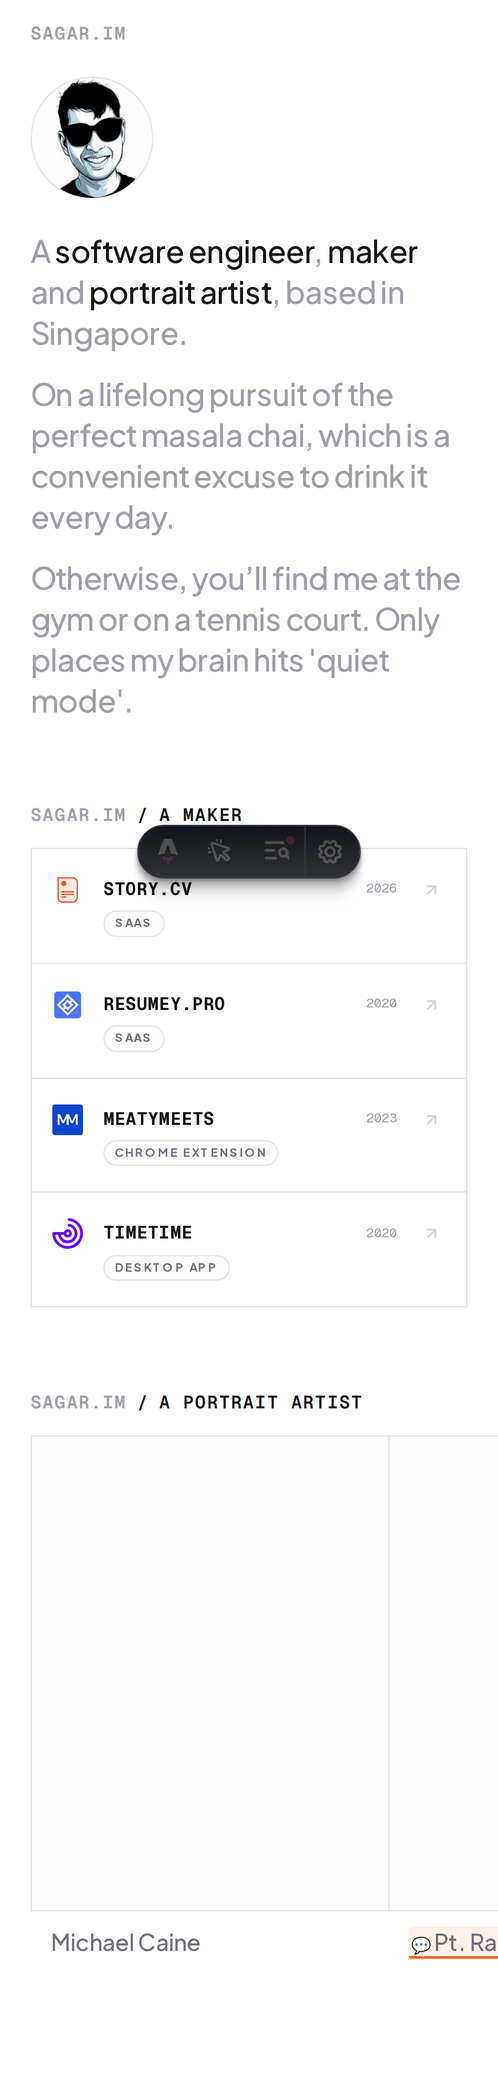
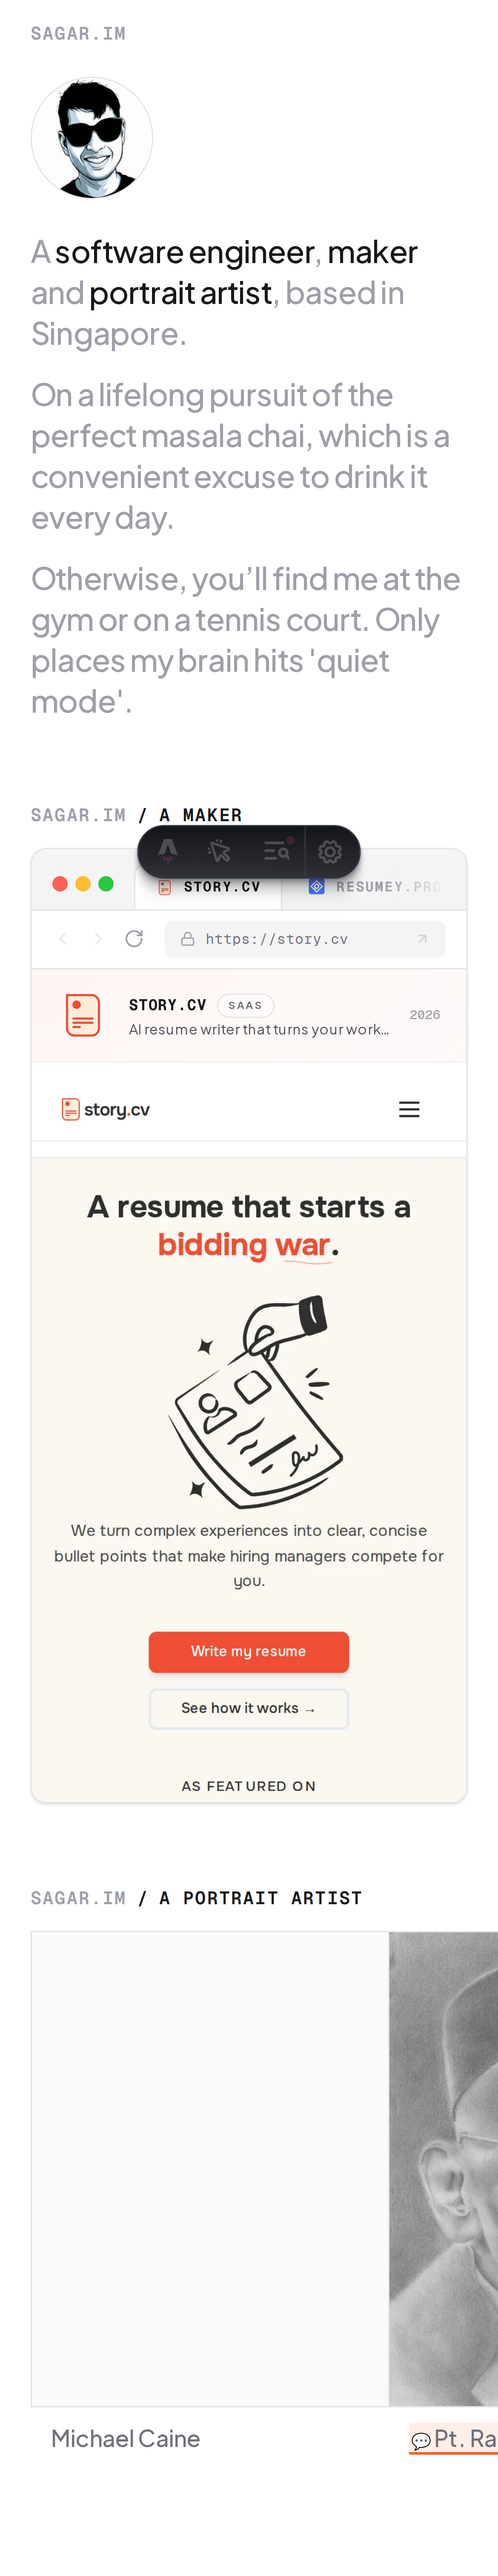
Redesign Maker Section to Browser UI (#20)
* Redesign maker section with browser-like container UI

- Implement browser-style window with traffic lights and tabs
- Add horizontally scrollable tab list for apps with logo and name
- Add toolbar with navigation icons and functional URL bar
- Update URL bar text and link dynamically based on selected tab
- Enhance visual style with glassmorphism and brand-colored spotlight effects
- Update screenshot utility and add Playwright tests for the new UI

* Redesign maker section to browser-like container

- Replaces accordion layout with a browser-themed UI including window controls, tabs, and a URL bar.
- Implements client-side JavaScript for tab switching and dynamic brand-colored effects.
- Adds horizontal scroll support for tabs with a visual gradient hint on mobile.
- Updates Playwright tests and screenshot scripts to verify the new functionality.
- Ensures the URL bar acts as a functional link to external applications.

* Redesign maker section as a browser-themed UI

- Replace accordion list with a browser-like container including traffic lights, tabs, and a toolbar.
- Implement horizontally scrollable app tabs with logo and name.
- Add functional URL bar with external link icon and URL truncation.
- Integrate high-fidelity app screenshots into the browser content area.
- Automate screenshot capture via `scripts/capture-apps.mjs`.
- Add Playwright tests for the new browser UI and interactivity.
- Update content schemas and Markdown for app screenshots.
[…]

diff --git a/src/content/config.ts b/src/content/config.ts
@@ -11,6 +11,9 @@ const apps = defineCollection({
     tag: z.string(),
     year: z.string(),
     color: z.string(),
+    screenshot: image().optional(),
+    screenshot_desktop: image().optional(),
+    screenshot_mobile: image().optional(),
   }),
 });
 

diff --git a/src/content/apps/meatymeets.md b/src/content/apps/meatymeets.md
@@ -7,4 +7,7 @@ order: 3
 tag: "Chrome Extension"
 year: "2023"
 color: "#0D45CD"
+screenshot: "../../assets/apps/meatymeets.png"
+screenshot_desktop: "../../assets/apps/meatymeets-desktop.png"
+screenshot_mobile: "../../assets/apps/meatymeets-mobile.png"
 ---

diff --git a/src/content/apps/resumey-pro.md b/src/content/apps/resumey-pro.md
@@ -7,4 +7,7 @@ order: 2
 tag: "SaaS"
 year: "2020"
 color: "#4B76F1"
+screenshot: "../../assets/apps/resumey-pro.png"
+screenshot_desktop: "../../assets/apps/resumey-pro-desktop.png"
+screenshot_mobile: "../../assets/apps/resumey-pro-mobile.png"
 ---

diff --git a/src/content/apps/timetime.md b/src/content/apps/timetime.md
@@ -7,4 +7,7 @@ order: 4
 tag: "Desktop App"
 year: "2020"
 color: "#6807F9"
+screenshot: "../../assets/apps/timetime.png"
+screenshot_desktop: "../../assets/apps/timetime-desktop.png"
+screenshot_mobile: "../../assets/apps/timetime-mobile.png"
 ---

diff --git a/src/content/apps/story-cv.md b/src/content/apps/story-cv.md
@@ -7,4 +7,7 @@ order: 1
 tag: "SaaS"
 year: "2026"
 color: "#EE4E34"
+screenshot: "../../assets/apps/story-cv.png"
+screenshot_desktop: "../../assets/apps/story-cv-desktop.png"
+screenshot_mobile: "../../assets/apps/story-cv-mobile.png"
 ---
